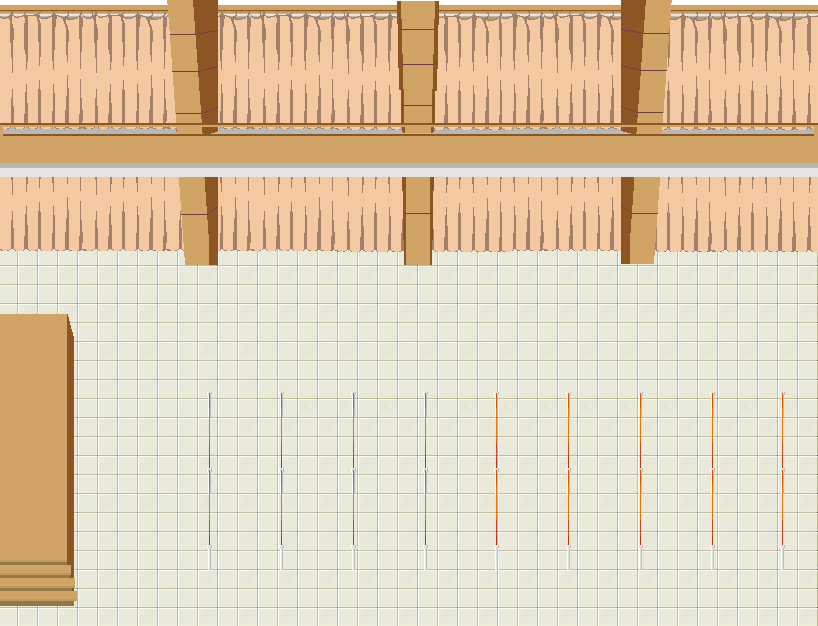
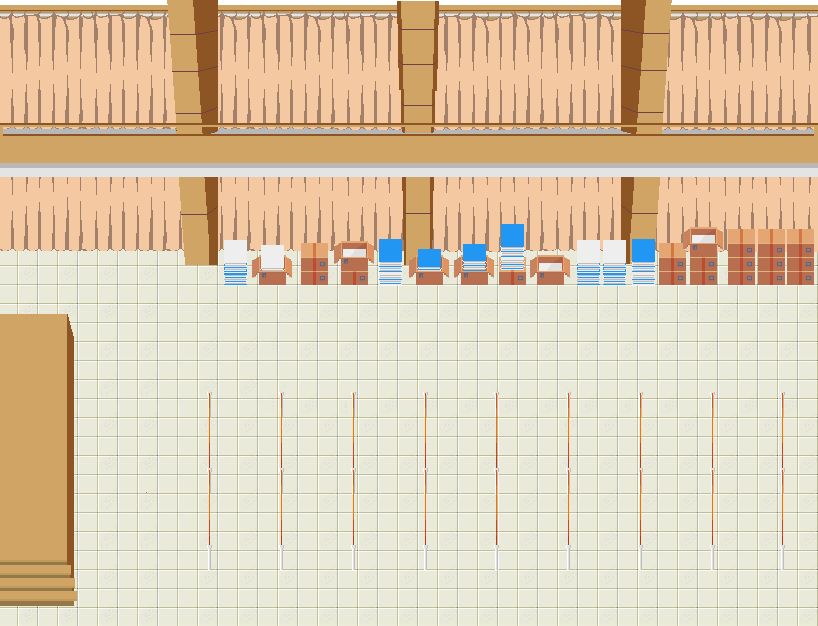
c2 hall security added

Changed region(s): [[0.2751, 0.3339, 1.0, 0.4553]]

diff --git a/src/npc/Npc.java b/src/npc/Npc.java
@@ -14,9 +14,10 @@ public class Npc extends Tile{
 
 
 
-    public Npc(GamePanel gamePanel, Rectangle hitbox){
+    public Npc(GamePanel gamePanel, Rectangle hitbox, String name){
         this.gamePanel = gamePanel;
         this.displaybox = hitbox;
+        Name = name;
         LeftX = hitbox.x;
         RightX = hitbox.x + hitbox.width;
         TopY = hitbox.y;
@@ -25,13 +26,23 @@ public class Npc extends Tile{
         height = hitbox.height;
 
         Type = "Interact";
-        Name = "Npc";
 
         Load_animation();
     }
 
     private void Load_animation(){
-        animation = new Animation_player(gamePanel, "res/NPC/teacher1/Frame ", 7, 1.0, displaybox);
+        switch (Name) {
+            case "teacher1":
+                animation = new Animation_player(gamePanel, "res/NPC/teacher1/Frame ", 7, 1.0, displaybox);
+                break;
+            
+            case "security_man":
+                animation = new Animation_player(gamePanel, "res/NPC/security_man/frame ", 4, 0.8, displaybox);
+                break;
+                
+            default:
+                break;
+        }
     }
 
     private void update(){

diff --git a/src/area/C2/C2_hall.java b/src/area/C2/C2_hall.java
@@ -15,7 +15,7 @@ import java.io.*;
 public class C2_hall extends Map {
     Tile layer1, layer2;
     GamePanel gamePanel;
-    Npc teacher1;
+    Npc teacher1, security_man;
     Tile spawn_point;
 
 
@@ -100,8 +100,11 @@ public class C2_hall extends Map {
         addTile(new Tile(new Rectangle(710 , 391 , 5 , 179), "Barrier", "Obstacle", null, null));
         addTile(new Tile(new Rectangle(780 , 391 , 6 , 177), "Barrier", "Obstacle", null, null));
         
-        teacher1 = new Npc(gamePanel, new Rectangle( 309 , 299 , 24 , 34));
+        teacher1 = new Npc(gamePanel, new Rectangle( 309 , 299 , 24 , 34), "teacher1");
+        security_man = new Npc(gamePanel, new Rectangle( 190 , 270 , 21 , 53), "security_man");
+
         addTile(teacher1);
+        addTile(security_man);
 
 
     }
@@ -114,6 +117,7 @@ public class C2_hall extends Map {
     public void draw(Graphics2D g2) {
         gamePanel.tileManager.draw(g2, layer1);
         teacher1.operation(g2);
+        security_man.operation(g2);
         gamePanel.tileManager.draw(g2, layer2);
 
         // for (int i = 0; i < numTileContainer; ++i)
